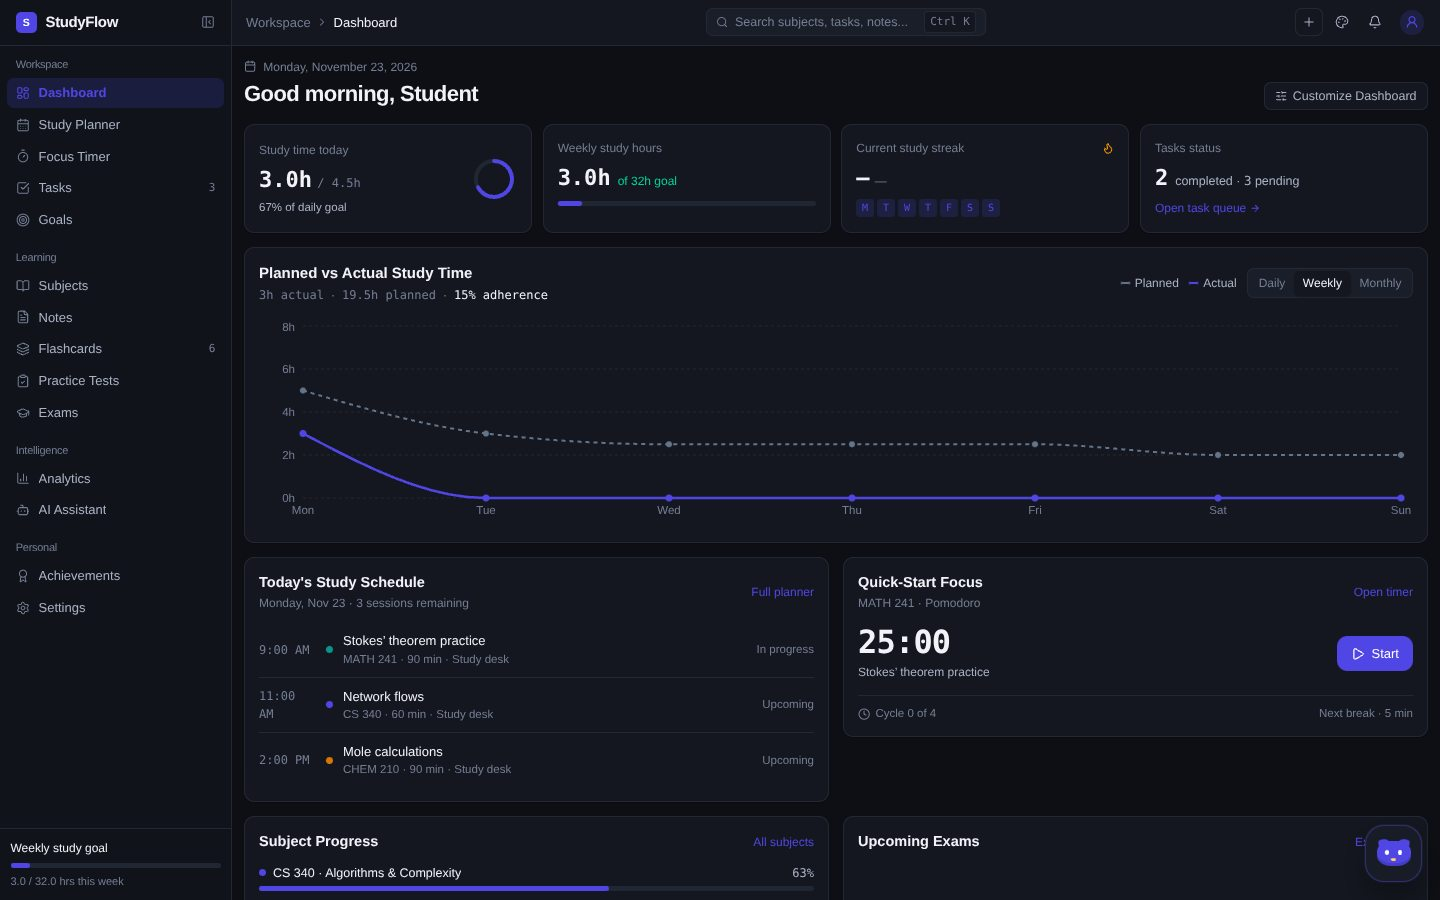
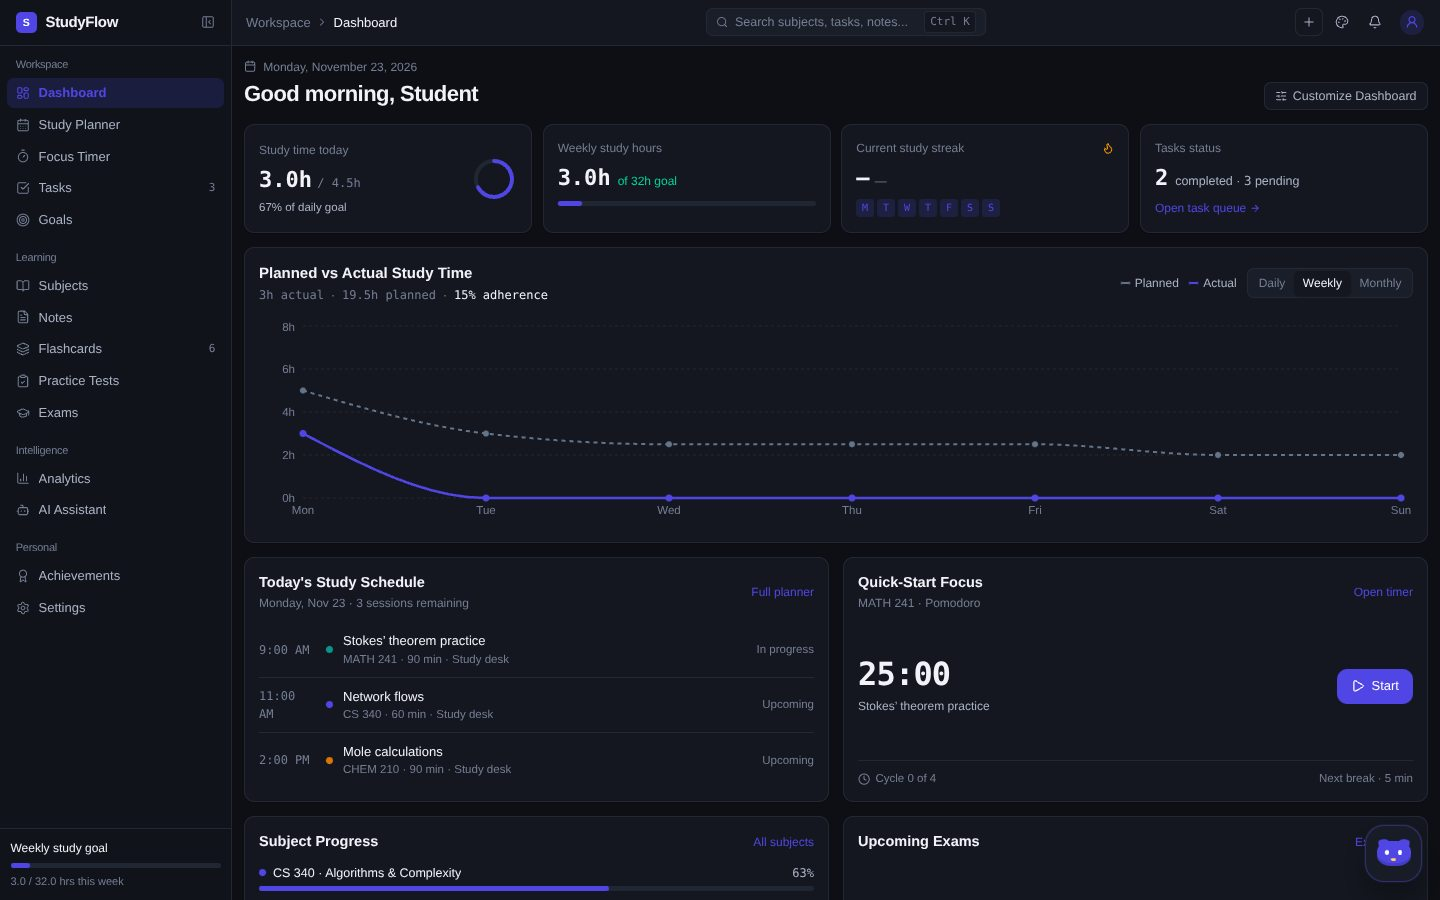
Align dashboard focus and schedule cards

diff --git a/src/components/views/DashboardView.tsx b/src/components/views/DashboardView.tsx
@@ -382,32 +382,32 @@ export const DashboardView: React.FC = () => {
             : formatTimerSeconds(focusTimer.secondsLeft);
 
         return (
-          <section key={id} className="rounded-xl p-4 self-start" style={surfaceStyle}>
-            <div className="flex items-center justify-between">
-              <div>
+          <section key={id} className="grid min-w-0 grid-rows-[auto_1fr_auto] gap-4 rounded-xl p-4" style={surfaceStyle}>
+            <div className="flex items-center justify-between gap-3">
+              <div className="min-w-0">
                 <h2 className="font-display text-[14.5px] font-semibold text-[var(--text-primary)]">
                   Quick-Start Focus
                 </h2>
-                <p className="text-[12px] text-[var(--text-muted)] truncate max-w-[220px]">
-                  {sub?.code} · {focusTimer.mode}
+                <p className="text-[12px] text-[var(--text-muted)] truncate">
+                  {sub ? sub.code + ' · ' : ''}{focusTimer.mode}
                 </p>
               </div>
               <button
                 type="button"
                 onClick={() => setRoute('focus')}
-                className="text-[12px] font-medium hover:underline"
+                className="shrink-0 whitespace-nowrap text-[12px] font-medium hover:underline"
                 style={{ color: 'var(--accent)' }}
               >
                 Open timer
               </button>
             </div>
 
-            <div className="my-4 flex items-center justify-between gap-4">
-              <div>
+            <div className="flex items-center justify-between gap-4 self-center">
+              <div className="min-w-0">
                 <div className="font-mono-num text-[32px] font-semibold tracking-tight text-[var(--text-primary)] leading-none">
                   {timeStr}
                 </div>
-                <div className="text-[12px] text-[var(--text-secondary)] mt-1.5 truncate max-w-[230px]">
+                <div className="text-[12px] text-[var(--text-secondary)] mt-2 break-words">
                   {current?.title || (!idle && focusTimer.taskTitle) || 'Manual focus'}
                 </div>
               </div>
@@ -426,7 +426,7 @@ export const DashboardView: React.FC = () => {
               </button>
             </div>
 
-            <div className="pt-2.5 flex items-center justify-between text-[11.5px] text-[var(--text-muted)]" style={{ borderTop: '1px solid var(--border-subtle)' }}>
+            <div className="flex flex-wrap items-center justify-between gap-x-3 gap-y-1 pt-2.5 text-[11.5px] text-[var(--text-muted)]" style={{ borderTop: '1px solid var(--border-subtle)' }}>
               <span className="flex items-center gap-1.5">
                 <Clock className="w-3.5 h-3.5" /> Cycle {focusTimer.cycleCount} of 4
               </span>
